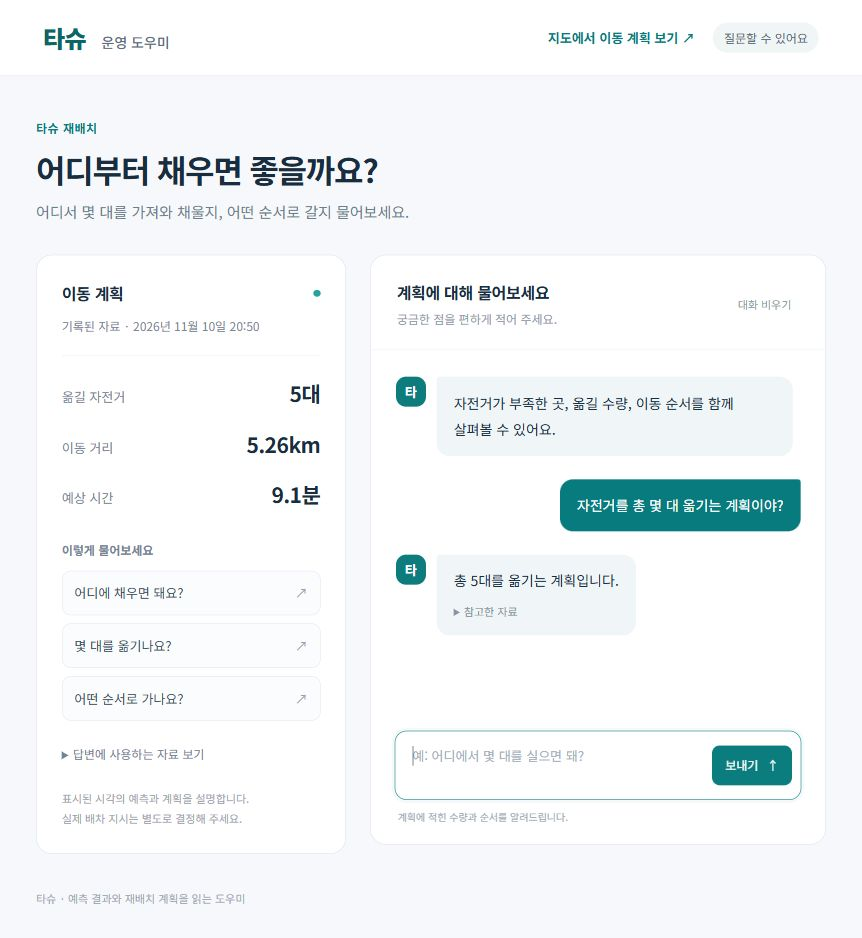
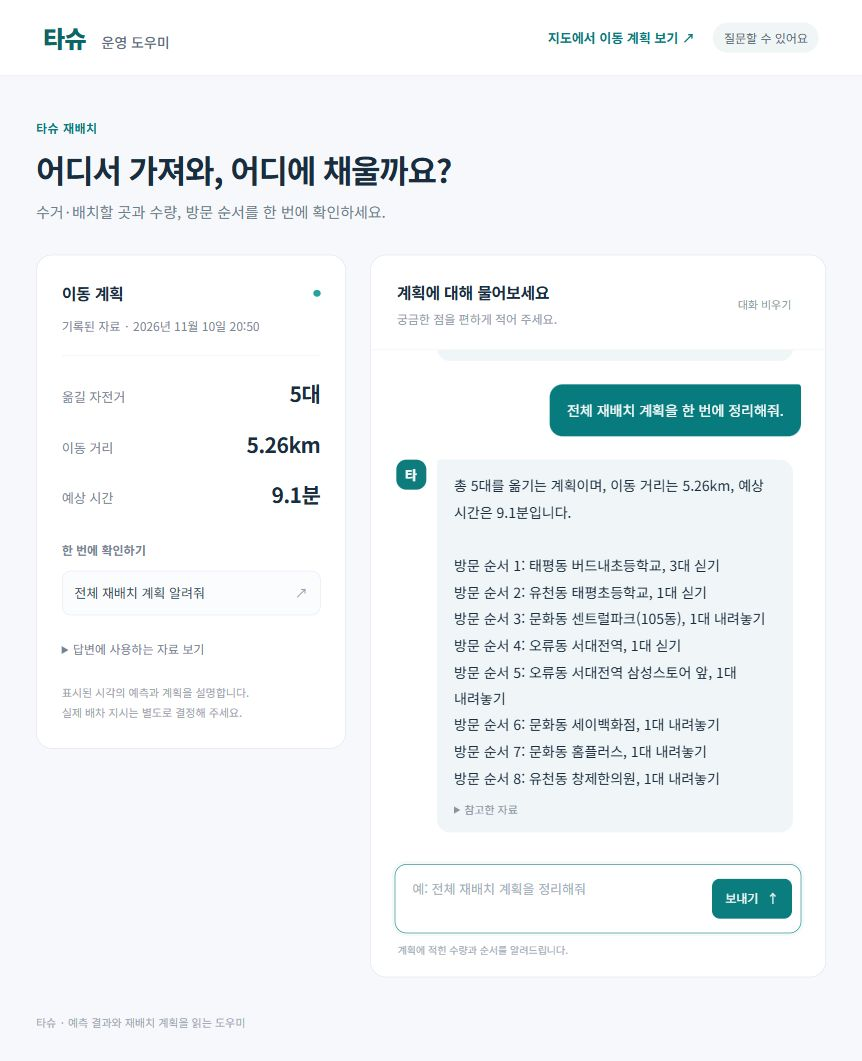
Frame full operational service in slides and combined-question demo

diff --git a/tools/render_demo_video.py b/tools/render_demo_video.py
@@ -30,12 +30,12 @@ def frame(i,scene,shot):
         im.paste(pic,((1920-pic.width)//2,112));ImageDraw.Draw(im).rectangle((0,934,1920,1080),fill='#173E50');return im
     y=text(d,scene['title'],(57,220),f(57,True),'#173E50',570,20)
     if scene['kind']=='cover':
-        text(d,'10분 뒤 예측\n이동 수량과 동선\n계획에 대한 질문',(60,y+60),f(34),'#526A75',535,24)
+        text(d,'이용 흐름·부족 위험\n수거·배치 수량과 동선\n운영자가 묻고 확인',(60,y+60),f(34),'#526A75',535,24)
     elif scene['kind']=='route':
         for n,v in enumerate([('옮길 자전거','5대'),('총 이동 거리','5.26km'),('예상 소요 시간','9.1분')]):
             yy=y+45+n*115;d.text((61,yy),v[0],font=f(27),fill='#526A75');d.text((61,yy+34),v[1],font=f(45,True),fill='#188584')
     elif i==3:text(d,'적재량 20대 → 1대\n총 이동 5대 → 3대\n같은 관측으로 다시 계산',(61,y+55),f(31),'#526A75',545,22)
-    elif scene['kind']=='assistant':text(d,'“어떤 순서로 가나요?”\n\n계산된 수량·방문지로 답변\n참고한 자료 확인',(61,y+55),f(31),'#526A75',535,19)
+    elif scene['kind']=='assistant':text(d,'“전체 계획을 정리해줘”\n\n총대수·거리·시간과 방문 순서\n참고한 자료 확인',(61,y+55),f(31),'#526A75',535,19)
     elif scene['kind']=='close':text(d,'예측  →  계획  →  설명\n\n시범 운영으로 현장 효과 확인',(61,y+60),f(33),'#526A75',545,24)
     else:text(d,'대여소 1,294곳\n10분 뒤 재고 예측\n부족 예상과 현재 재고 확인',(61,y+55),f(32),'#526A75',545,24)
     raw=Image.open(shot).convert('RGB')

diff --git a/docs/service-composition.md b/docs/service-composition.md
@@ -2,9 +2,9 @@
 
 ![편집 가능한 서비스 구성도의 미리보기](../assets/tashu-service-editable-preview.png)
 
-대여소의 재고와 이용 기록을 보고 10분 뒤 부족할 곳을 예상한다. 차량 조건에 맞춰 이동 대수와 방문 순서를 계산하면, 담당자가 확인하고 자전거를 옮긴다. 새 재고가 들어오면 다시 계산한다.
+대여·반납 흐름과 대여소 관계를 현재 재고 관측에 연결해 부족 위험을 읽는다. 차량 조건에 맞춰 이동 대수와 방문 순서를 계산하면, 담당자가 확인하고 자전거를 옮긴다. 새 재고가 들어오면 다시 계산한다.
 
-질문에 답하는 외부 LLM은 예측과 이동 계획을 읽고 설명한다. 예측값을 바꾸거나 배차를 실행하는 역할은 아니다.
+외부 LLM은 전체 재배치 계획을 한 번에 설명한다. 현재 검증한 재고 예측 구간은 10분이며, 프로젝트는 관측·이용 흐름 예측·부족 위험·수량·동선·업무 질문을 연결하는 운영 도우미다. 예측값을 바꾸거나 배차를 실행하는 역할은 아니다.
 
 발표 자료의 8번 슬라이드는 도형·텍스트·연결선으로 그렸다. GCN 그래프, Flow Matching 도식과 예측 결과를 크게 배치하고 작은 `h` 표시는 없앴다. 글자는 대부분 22~31 크기다. 생성한 자료·재고·날씨·담당자·차량 아이콘과 공식 OpenAI 아이콘은 각각 옮기고 크기를 바꿀 수 있다. 위 PNG는 미리보기다. 편집 원본은 워크시트의 슬라이드다.
 

diff --git a/docs/quickstart-external-llm.md b/docs/quickstart-external-llm.md
@@ -1,5 +1,7 @@
 # 외부 LLM과 재배치 화면 실행
 
+화면의 ‘전체 재배치 계획 알려줘’ 버튼 하나로 총대수·거리·예상 시간과 모든 방문지의 수거·배치 대수를 함께 확인한다.
+
 현재 답변 모델은 Antigravity의 `gemini-3.8-flash-low`다. 정상 로그인한 공식 CLI가 외부 모델에 요청을 보내고, dislab은 예측·계획 자료를 준비하고 답변의 숫자·방문지를 검사한다. 로컬 GPU로 LLM을 실행하지 않는다. H13 예측 모델도 그대로 유지한다.
 
 ## 현재 실행 화면
@@ -20,7 +22,7 @@ Get-ScheduledTask -TaskName TashuExternalAssistantH27
 
 # HTTP 확인
 Invoke-RestMethod http://127.0.0.1:8772/api/health
-$body = @{ question = '자전거를 총 몇 대 옮기는 계획이야?' } | ConvertTo-Json
+$body = @{ question = '전체 재배치 계획을 한 번에 정리해줘.' } | ConvertTo-Json
 Invoke-RestMethod http://127.0.0.1:8772/api/ask -Method Post -ContentType 'application/json; charset=utf-8' -Body ([Text.Encoding]::UTF8.GetBytes($body))
 ```
 
